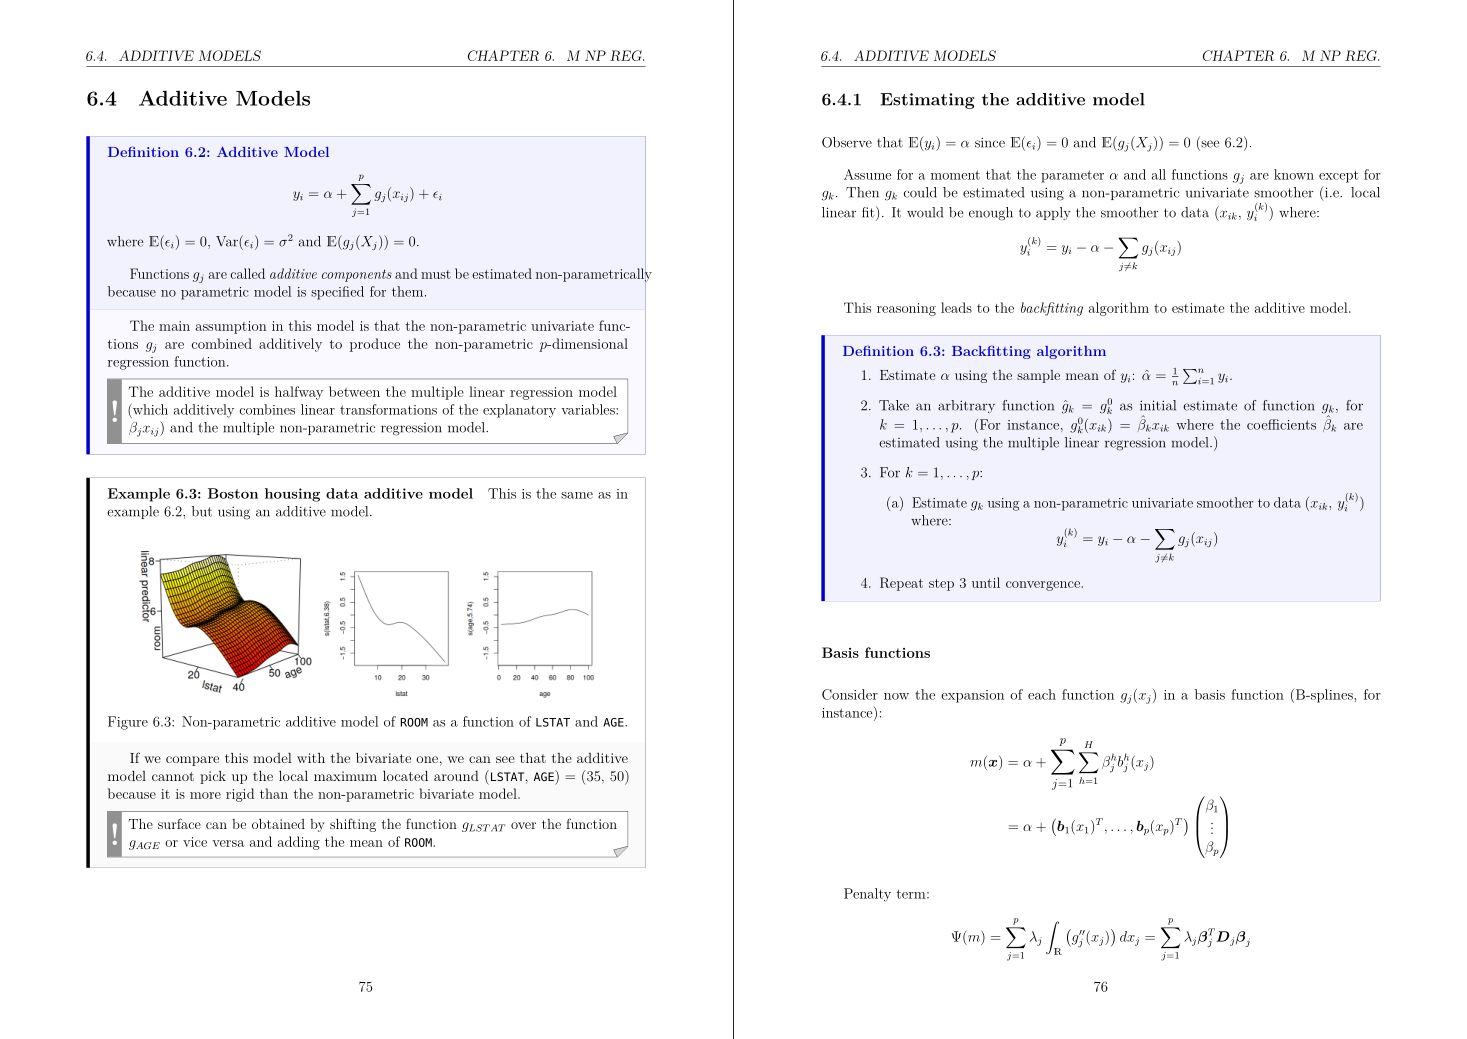
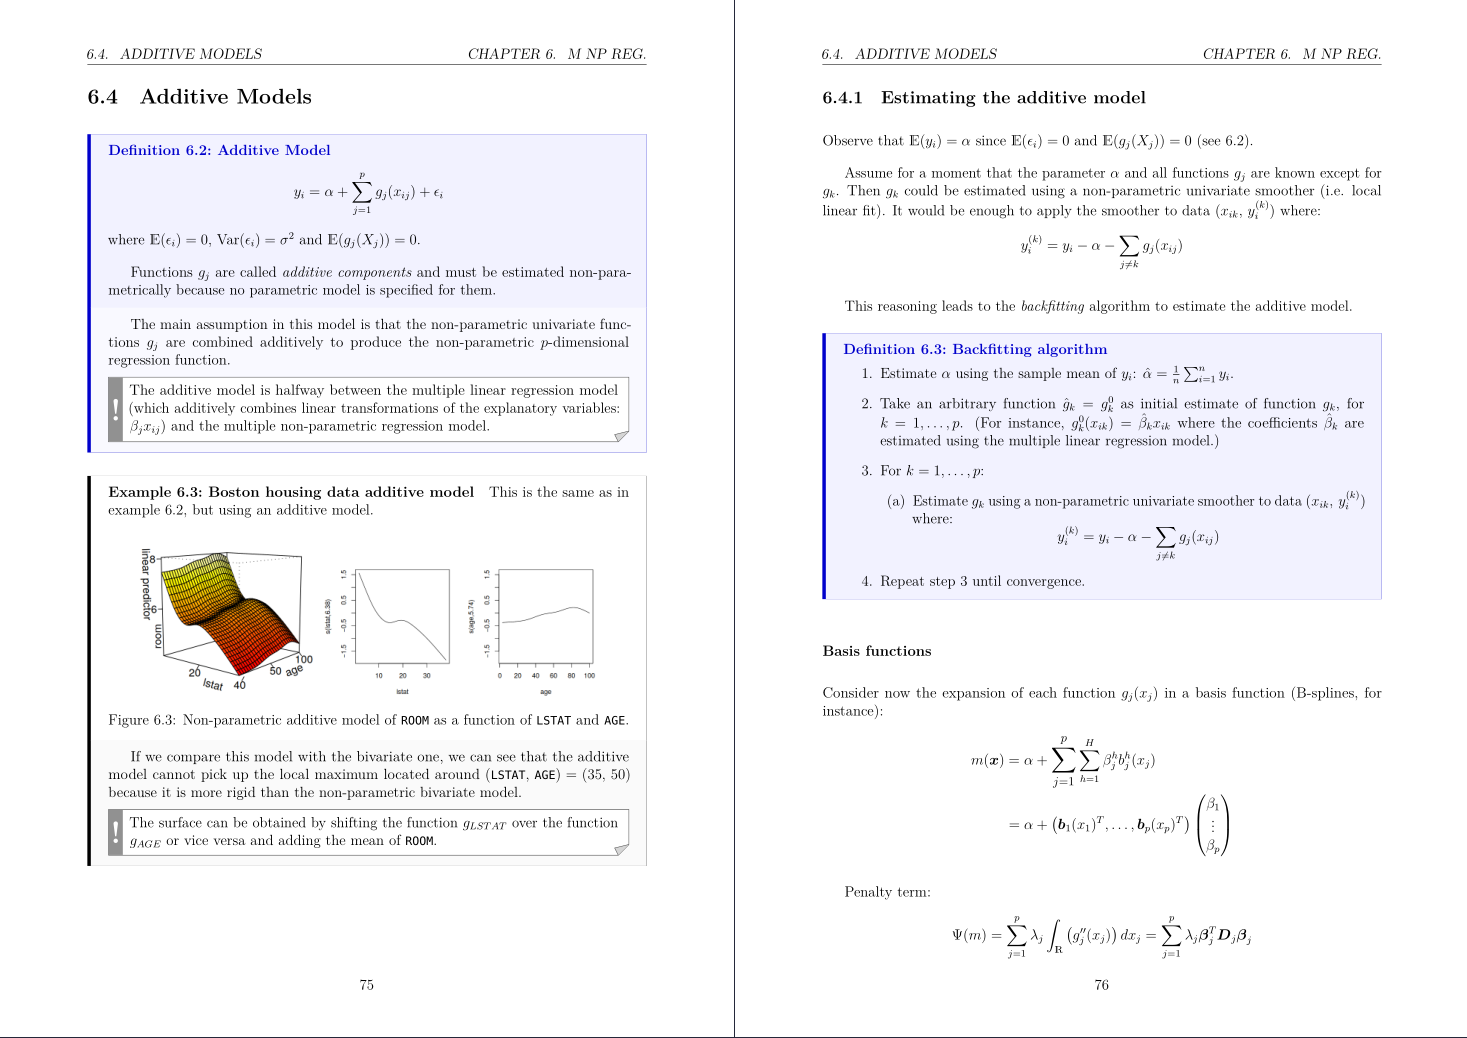
Hyphenate words with hyphens

diff --git a/part2/040-multiple.tex b/part2/040-multiple.tex
@@ -140,7 +140,7 @@ that allows for expansions of the form:
 
 Fitting functions:
 \begin{equation*}
-    f(x,\,z) = \sum_{j=1}^J \sum_{h=1}^H \gamma_{jh} a_j(x) b_h(z) = \boldsymbol g(x,\,z)^T \boldsymbol\gamma
+    f(x,\,z) = \mathlarger{\sum_{j=1}^J} \sum_{h=1}^H \gamma_{jh} a_j(x) b_h(z) = \boldsymbol g(x,\,z)^T \boldsymbol\gamma
 \end{equation*}
 
 Penalty for tensor product splines (two penalty parameters):

diff --git a/001-preamble.tex b/001-preamble.tex
@@ -312,3 +312,4 @@
 \newtcolorbox{cnote}[1][]{marker=orange,#1}
 \newtcolorbox{note}[1][]{marker=white,#1}
 
+\directlua{require("lua/hyphenate_all")}
